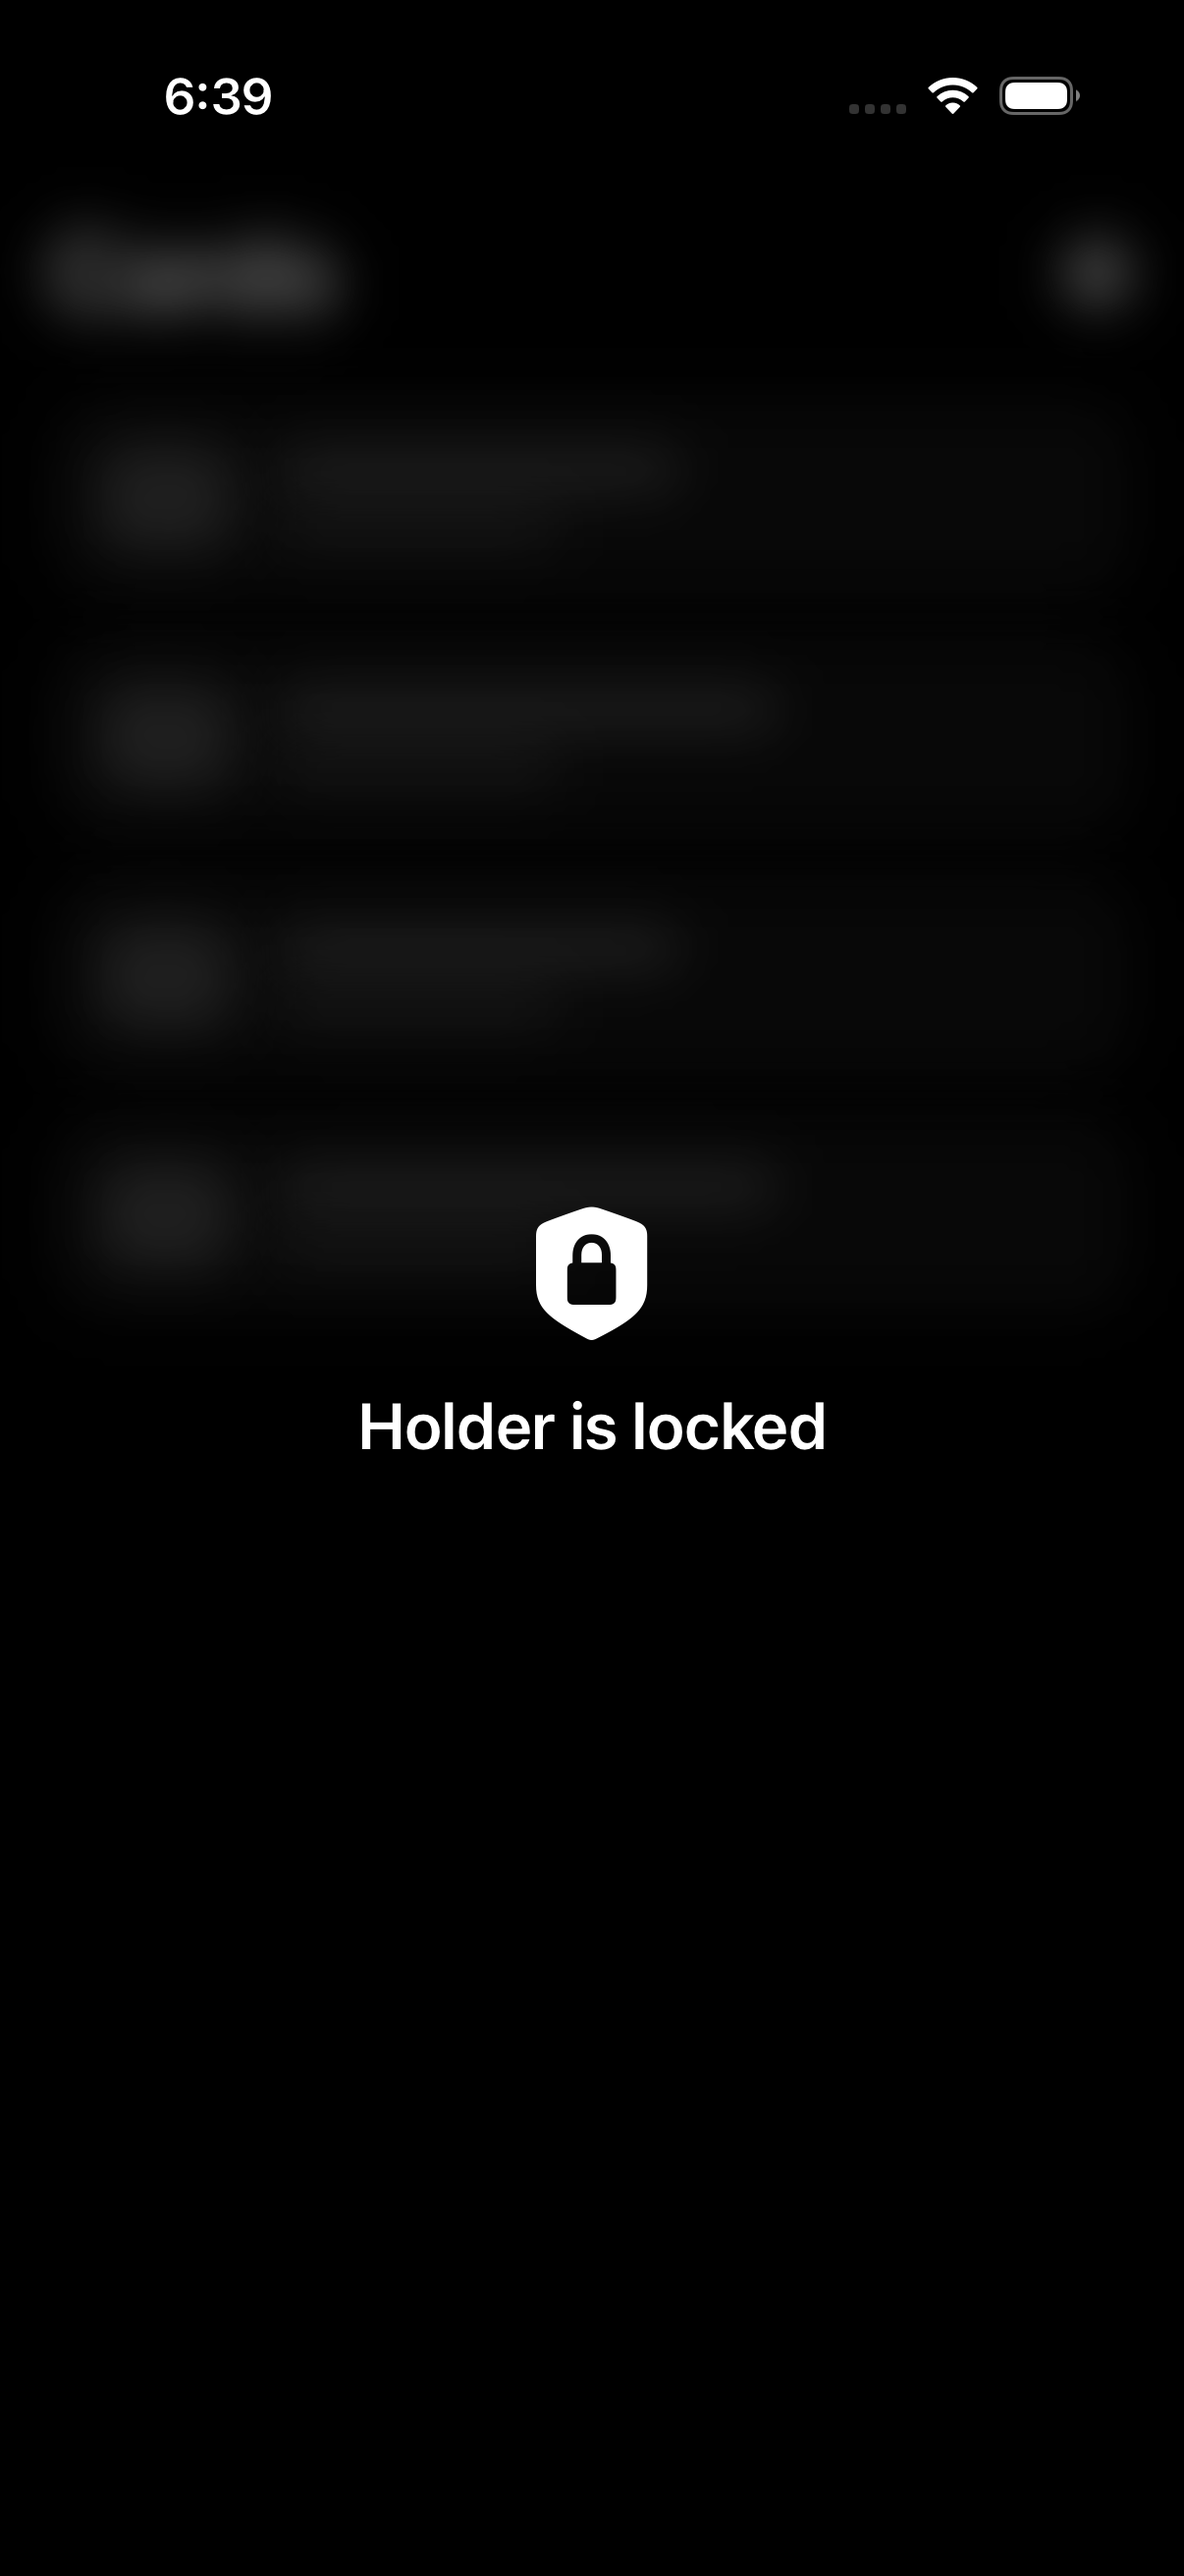
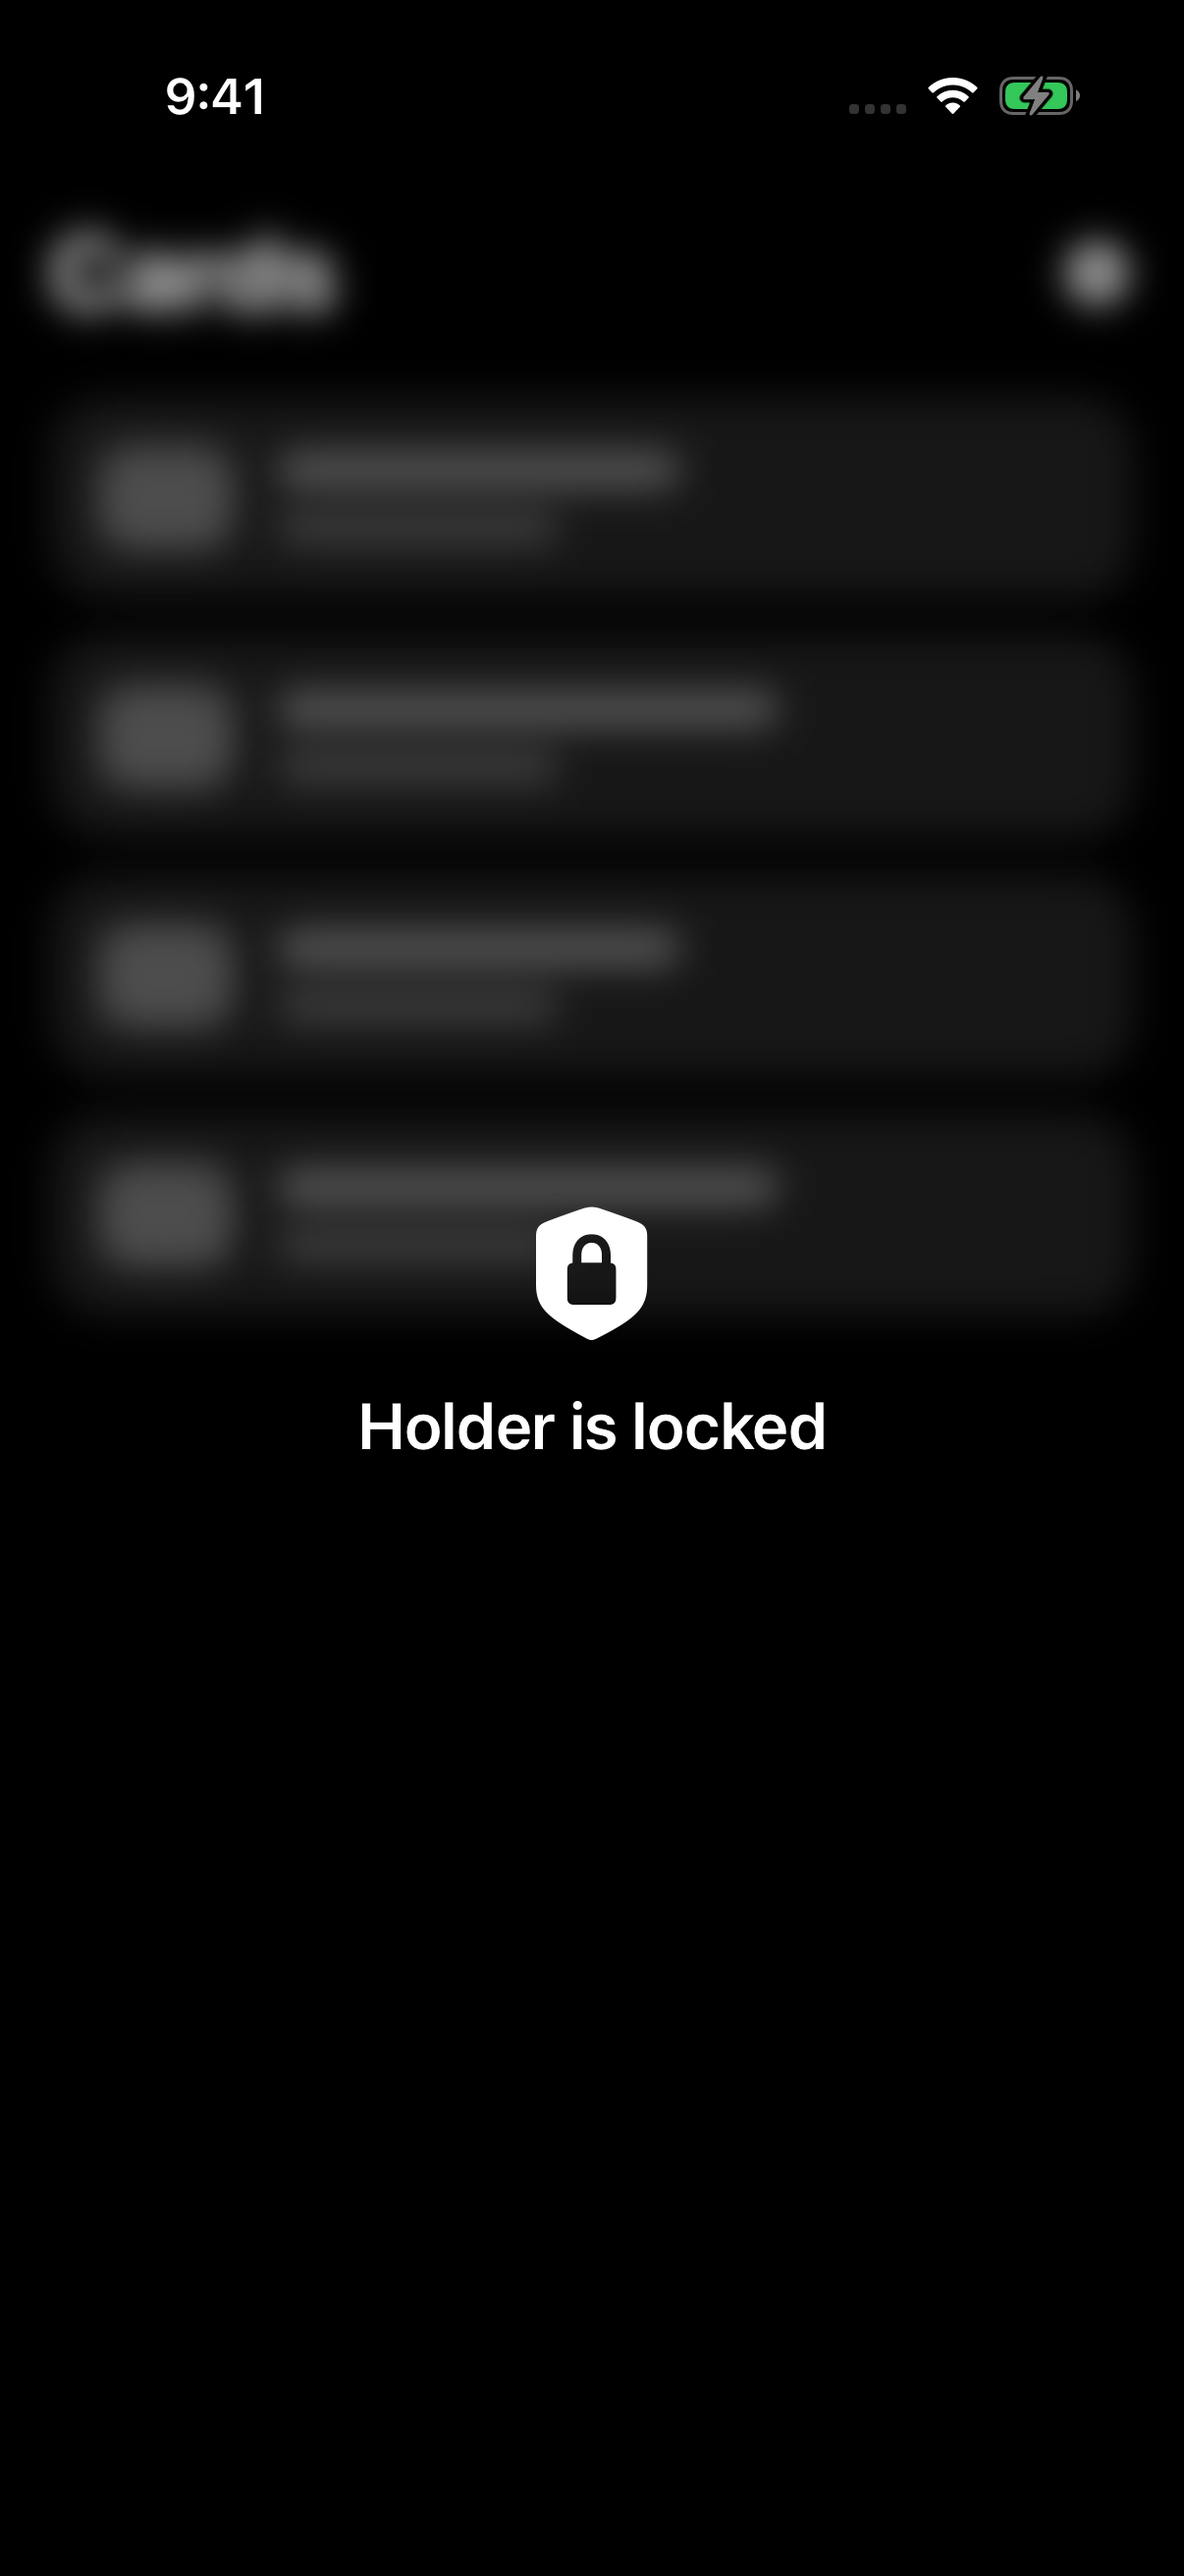
fix: make vault backdrop visibly blurred

diff --git a/cards/Platform/AuthenticationSession.swift b/cards/Platform/AuthenticationSession.swift
@@ -300,10 +300,6 @@ struct VaultProtectedView<Content: View>: View {
 
             blurredHomeBackdrop
 
-            platformBackground
-                .opacity(0.3)
-                .ignoresSafeArea()
-
             Button {
                 session.authenticateToUnlockVault()
             } label: {
@@ -350,15 +346,15 @@ struct VaultProtectedView<Content: View>: View {
                 ForEach(0..<4, id: \.self) { index in
                     HStack(spacing: 14) {
                         RoundedRectangle(cornerRadius: 10, style: .continuous)
-                            .fill(Color.primary.opacity(0.2))
+                            .fill(Color.primary.opacity(0.26))
                             .frame(width: 44, height: 34)
 
                         VStack(alignment: .leading, spacing: 8) {
                             Capsule()
-                                .fill(Color.primary.opacity(0.22))
+                                .fill(Color.primary.opacity(0.3))
                                 .frame(width: index.isMultiple(of: 2) ? 132 : 164, height: 12)
                             Capsule()
-                                .fill(Color.primary.opacity(0.14))
+                                .fill(Color.primary.opacity(0.2))
                                 .frame(width: 92, height: 10)
                         }
 
@@ -366,7 +362,7 @@ struct VaultProtectedView<Content: View>: View {
                     }
                     .padding(16)
                     .background(
-                        Color.primary.opacity(0.06),
+                        Color.primary.opacity(0.1),
                         in: RoundedRectangle(cornerRadius: 18, style: .continuous)
                     )
                 }
@@ -374,8 +370,8 @@ struct VaultProtectedView<Content: View>: View {
         }
         .padding(24)
         .frame(maxWidth: 620, maxHeight: .infinity, alignment: .top)
-        .blur(radius: 9)
-        .opacity(0.72)
+        .blur(radius: 6)
+        .opacity(0.9)
         .scaleEffect(1.04)
         .allowsHitTesting(false)
         .accessibilityHidden(true)
